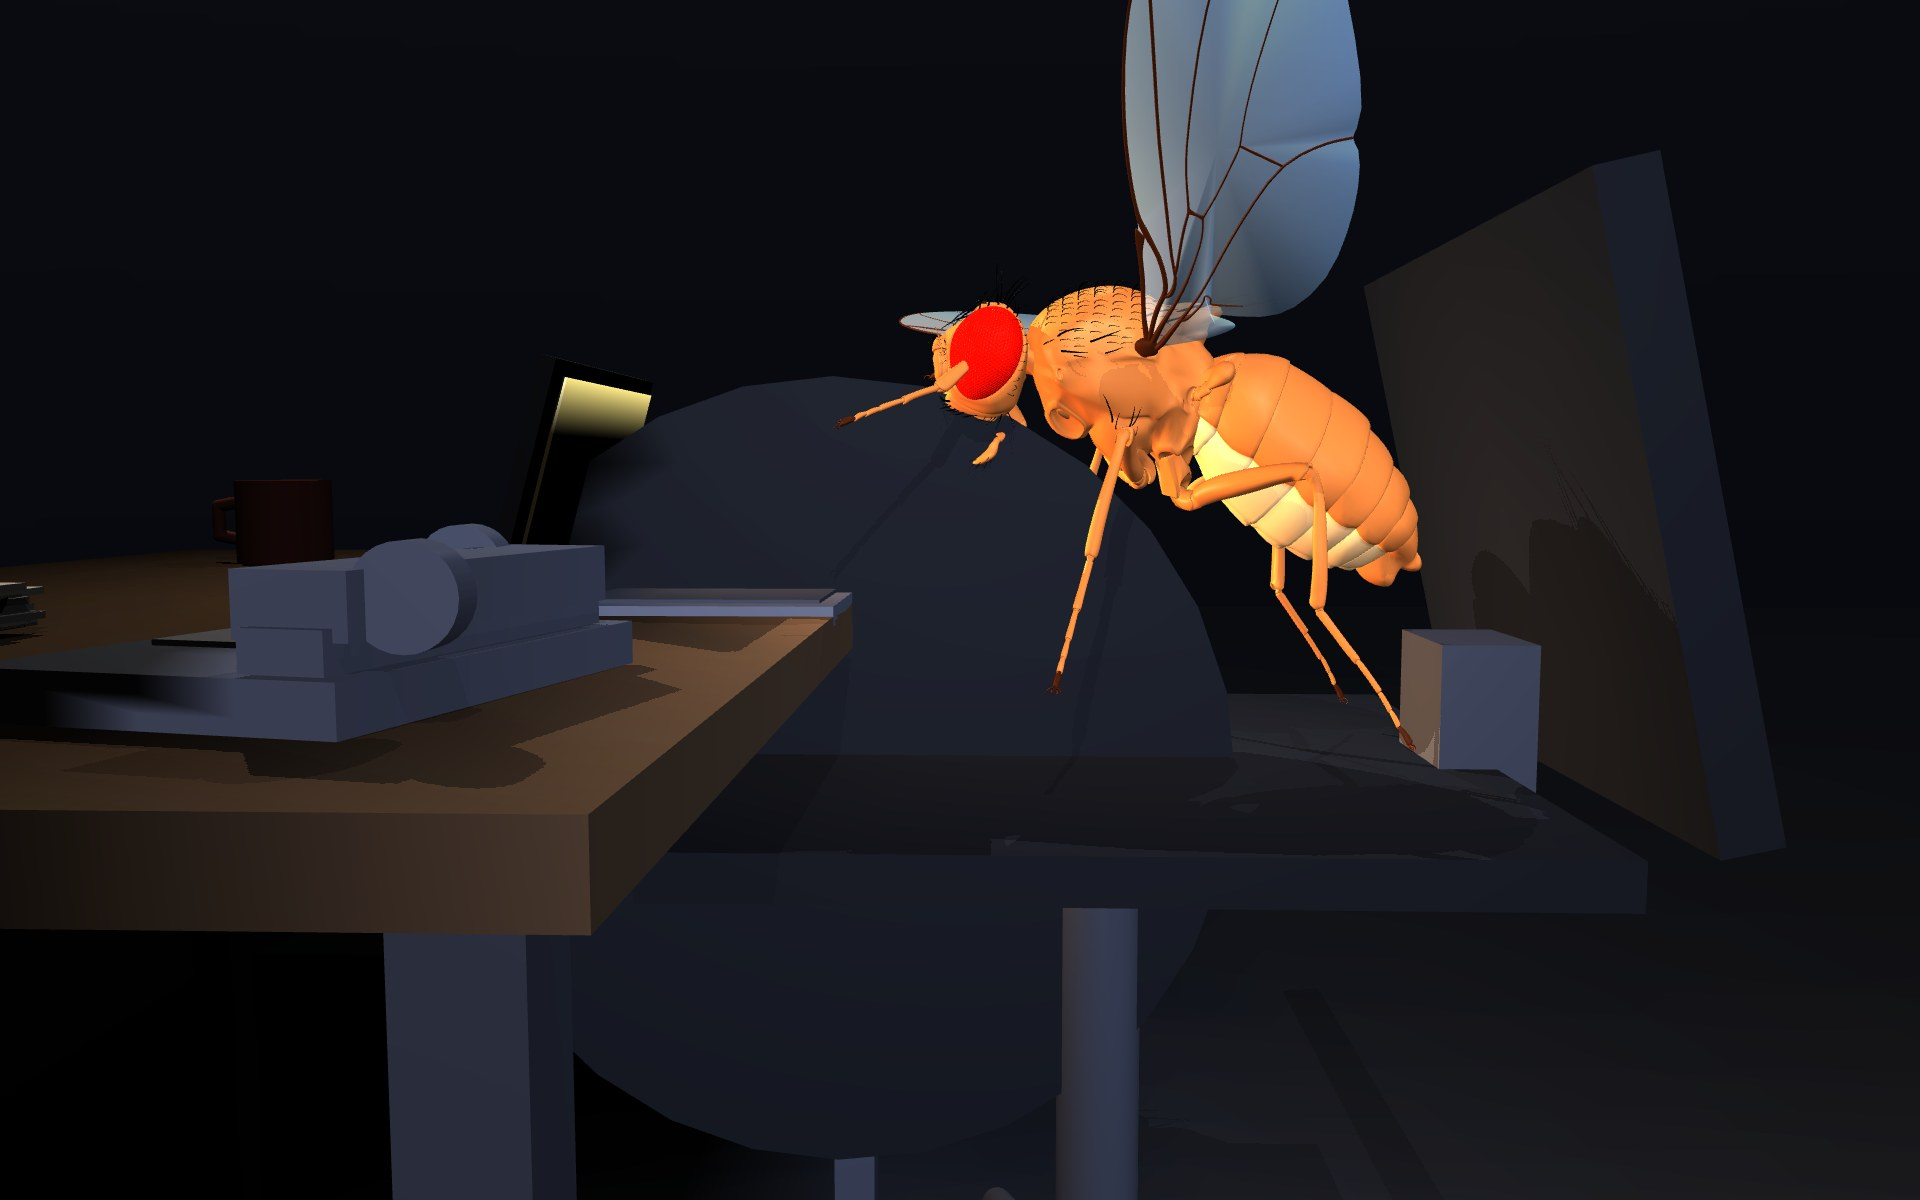
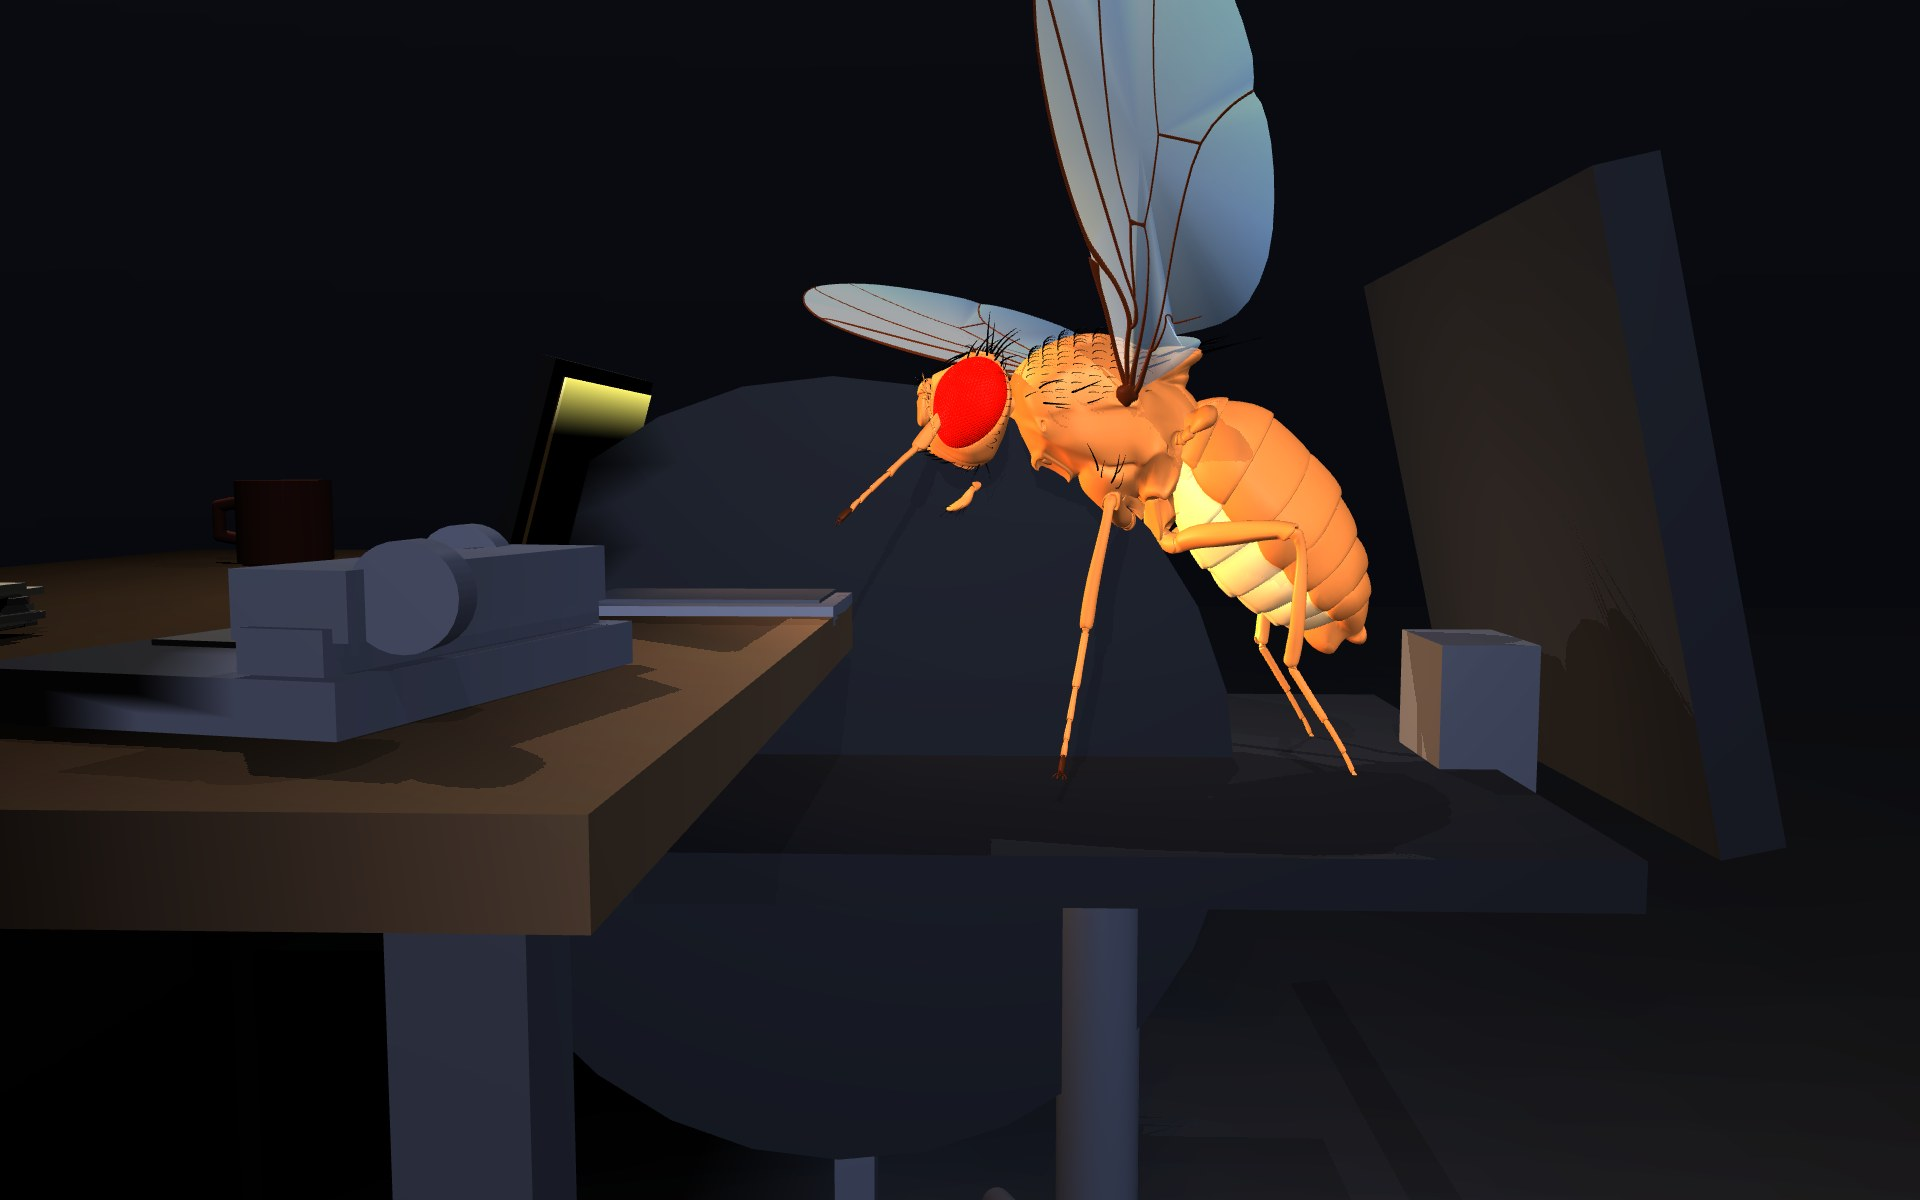
Smooth the startle, say fruit fly, shorten the developer link
The startle looked like a glitch because it was one: the pose blend ran to
fully-startled on the final frame and then cut straight back to working.jpg,
so every cycle ended in a hard snap.

Rebuilt as a proper arc over 22 frames instead of 14 -- snaps open on takeoff,
holds while airborne, then eases back with a smoothstep so the last frame
matches the resting pose. Measured: the final frame differs from working.jpg
by 0.58 mean pixels against 0.95 for an ordinary step between frames, so the
cut back is smaller than a normal animation step and invisible. The screen
flare follows the same curve so the laptop settles with the fly.

Also lengthens the settle from 45 to 150 frames. The circuit keeps firing
after the drive stops, and re-triggering each time the animation ended read as
repeated jumping. One ring now gives exactly one startle.

Copy says "fruit fly" rather than "fly", and the header link is just
"Developer".

Moves the GIANT FIBER FIRED label into the copy flow with reserved height --
after the panel shrank it was pinned to 50% height and collided with the
eyebrow. Verified the headline does not move when it appears.

Changed region(s): [[0.4062, 0.0, 0.75, 0.6475]]

diff --git a/web/index.html b/web/index.html
@@ -87,10 +87,11 @@
   .dot.real{background:#3ddc84}
   .dot.assumed{background:#565c66}
 
-  .status{position:absolute;left:44px;top:50%;z-index:5;font-size:11px;
-          letter-spacing:.16em;text-transform:uppercase;color:var(--dim);
-          opacity:0;transition:opacity .25s}
-  .stage.alert .status{opacity:1;color:var(--amber)}
+  /* Reserved height, so the label appearing never nudges the headline. */
+  .status{height:16px;margin-bottom:6px;font-size:11px;
+          letter-spacing:.16em;text-transform:uppercase;color:var(--amber);
+          opacity:0;transition:opacity .2s}
+  .stage.alert .status{opacity:1}
 
   @media (max-width:900px){
     .brain{right:14px;bottom:14px;width:210px}
@@ -118,16 +119,15 @@
       <span><b id="s-nt">—</b> measured transmitters</span>
     </nav>
     <a class="contact" href="https://marlonsteiner.studio" target="_blank" rel="noopener">
-      Connect with the developer <span class="arrow">&rarr;</span>
+      Developer <span class="arrow">&rarr;</span>
     </a>
   </header>
 
-  <div class="status" id="status">Giant Fiber fired</div>
-
   <div class="copy">
+    <div class="status" id="status">Giant Fiber fired</div>
     <div class="eyebrow">MaleCNS v1.0 &middot; Johnston&rsquo;s Organ &rarr; Giant Fiber</div>
-    <h1>The fly works in sales.</h1>
-    <p>Cold calls, night shift. The fly&rsquo;s ear &mdash; Johnston&rsquo;s Organ &mdash;
+    <h1>The fruit fly works in sales.</h1>
+    <p>Cold calls, night shift. The fruit fly&rsquo;s ear &mdash; Johnston&rsquo;s Organ &mdash;
        puts 709 synapses onto its Giant Fiber, the neuron that fires the escape
        jump. So when the phone rings, it genuinely startles. That neuron is why
        you miss when you swat.</p>
@@ -186,8 +186,8 @@ const AMBIENT = 0.88;
 const QUIET   = 0.72;
 const RING_DRIVE  = 0.55;   // how hard the ring drives the ear
 
-const STARTLE_FRAMES = 14;
-const FRAME_HOLD = 3;
+const STARTLE_FRAMES = 22;
+const FRAME_HOLD = 2;
 
 let N=0, pre, post, wgt, neurons=[];
 let v, iSyn, spikes, refrac, act;
@@ -325,7 +325,10 @@ function step(){
   else if(settle > 0) settle--;
   else if(gfSpikes > 0){
     fireTimer = STARTLE_FRAMES*FRAME_HOLD;
-    settle = 45;
+    // Long enough that one ring reads as one startle. The circuit keeps
+    // firing after the drive stops, and re-triggering every time the
+    // animation ends looked like a stutter.
+    settle = 150;
     jumps++;
   }
 }

diff --git a/render_frames.py b/render_frames.py
@@ -108,19 +108,33 @@ def main():
         iio.imwrite(OUT / "working.jpg", r.render(), quality=92)
         print("wrote working.jpg")
 
-        # startle: 14 frames, up and back down
-        n = 14
+        # Startle: takeoff, airborne, land, settle back to the working pose.
+        #
+        # The first version ran the pose blend to fully-startled on the final
+        # frame and then cut straight back to working.jpg, so every cycle
+        # ended in a hard snap. It read as a glitch because it was one.
+        n = 22
         for i in range(n):
             t = i / (n - 1)
             # screen flares hard at the incident, then settles back
-            flare = min(1.0, t * 3.0) * (1.0 - max(0.0, (t - 0.55) / 0.45) * 0.55)
+            flare = min(1.0, t / 0.18) * (1.0 - max(0.0, (t - 0.45) / 0.55) * 0.85)
             set_screen(model, {
                 k: tuple(np.array(CALM[k]) * (1 - flare) + np.array(ALERT[k]) * flare)
                 if isinstance(CALM[k], tuple) else CALM[k] * (1 - flare) + ALERT[k] * flare
                 for k in CALM
             })
-            lift = np.sin(min(1.0, t * 1.25) * np.pi) * 0.105
-            amount = min(1.0, t * 2.2)
+            # Arc: leaves the chair, peaks, comes back down by 78% through.
+            lift = np.sin(min(1.0, t / 0.78) * np.pi) * 0.105
+
+            # Posture: snaps open on takeoff, holds while airborne, then eases
+            # back to the working pose so the last frame matches working.jpg.
+            if t < 0.18:
+                amount = t / 0.18
+            elif t < 0.55:
+                amount = 1.0
+            else:
+                ease = (t - 0.55) / 0.45
+                amount = 1.0 - (ease * ease * (3 - 2 * ease))   # smoothstep
             pose(
                 model, data,
                 blend(WORKING, STARTLED, amount),
